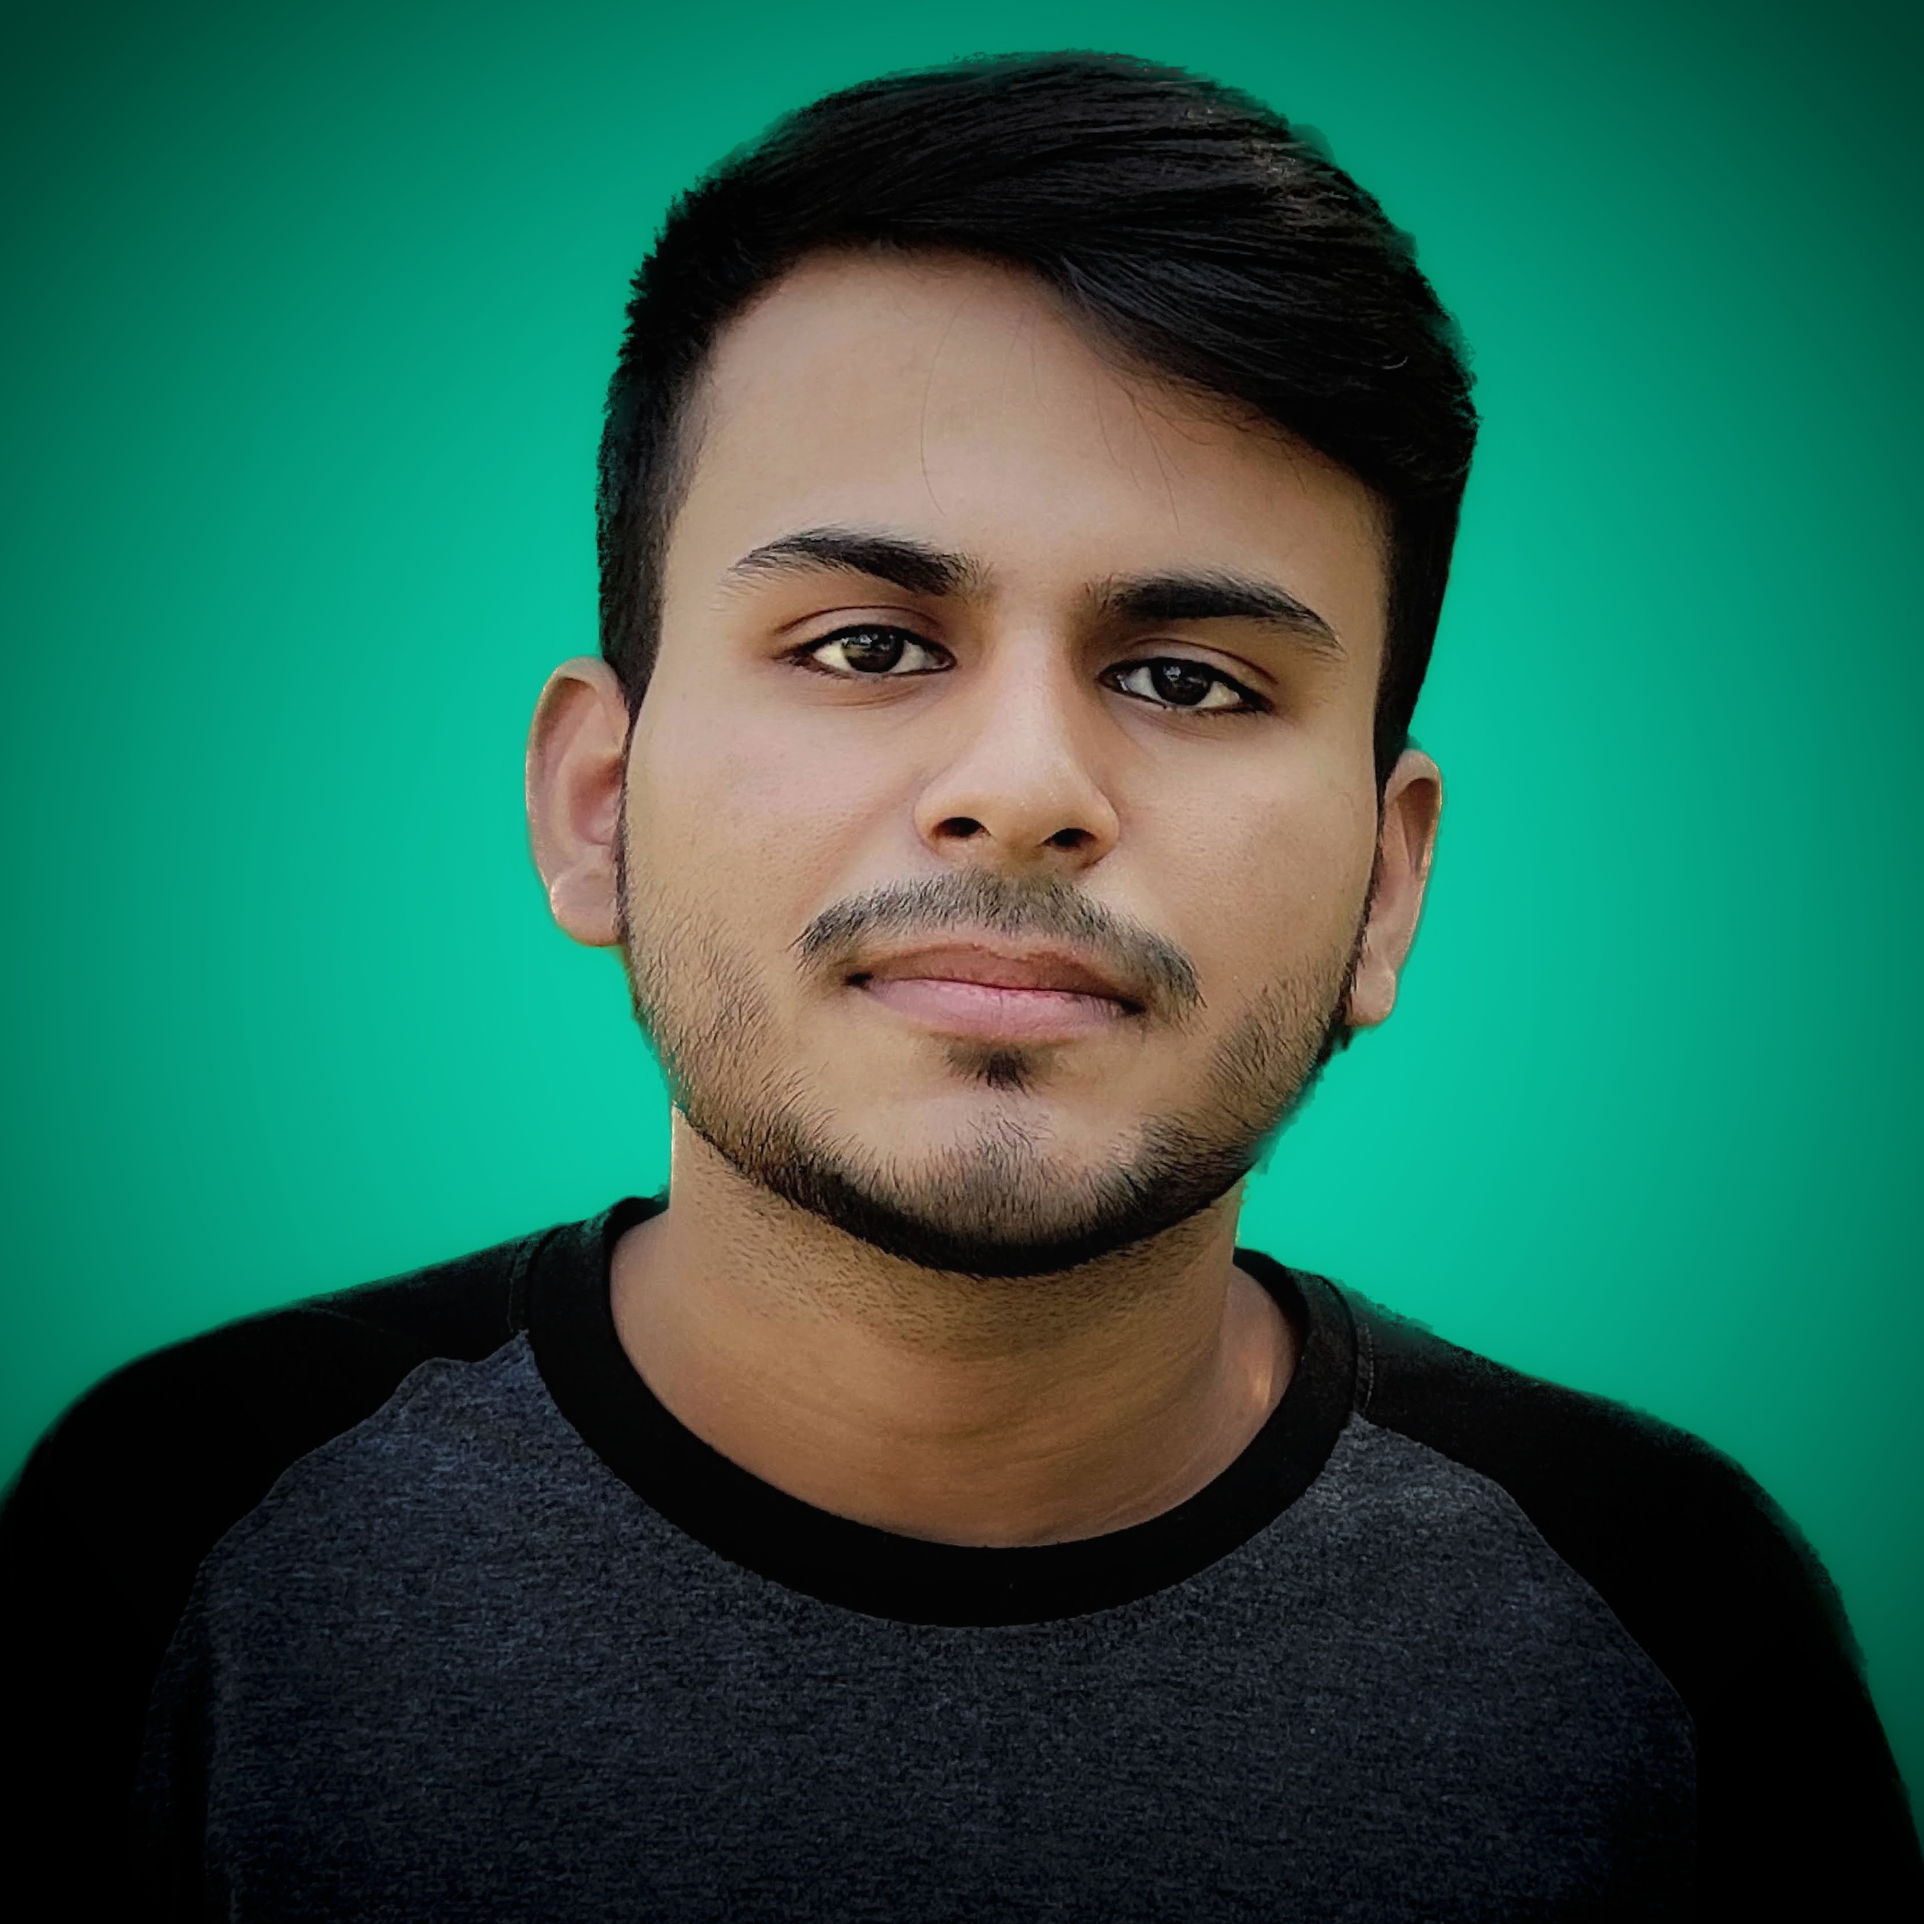
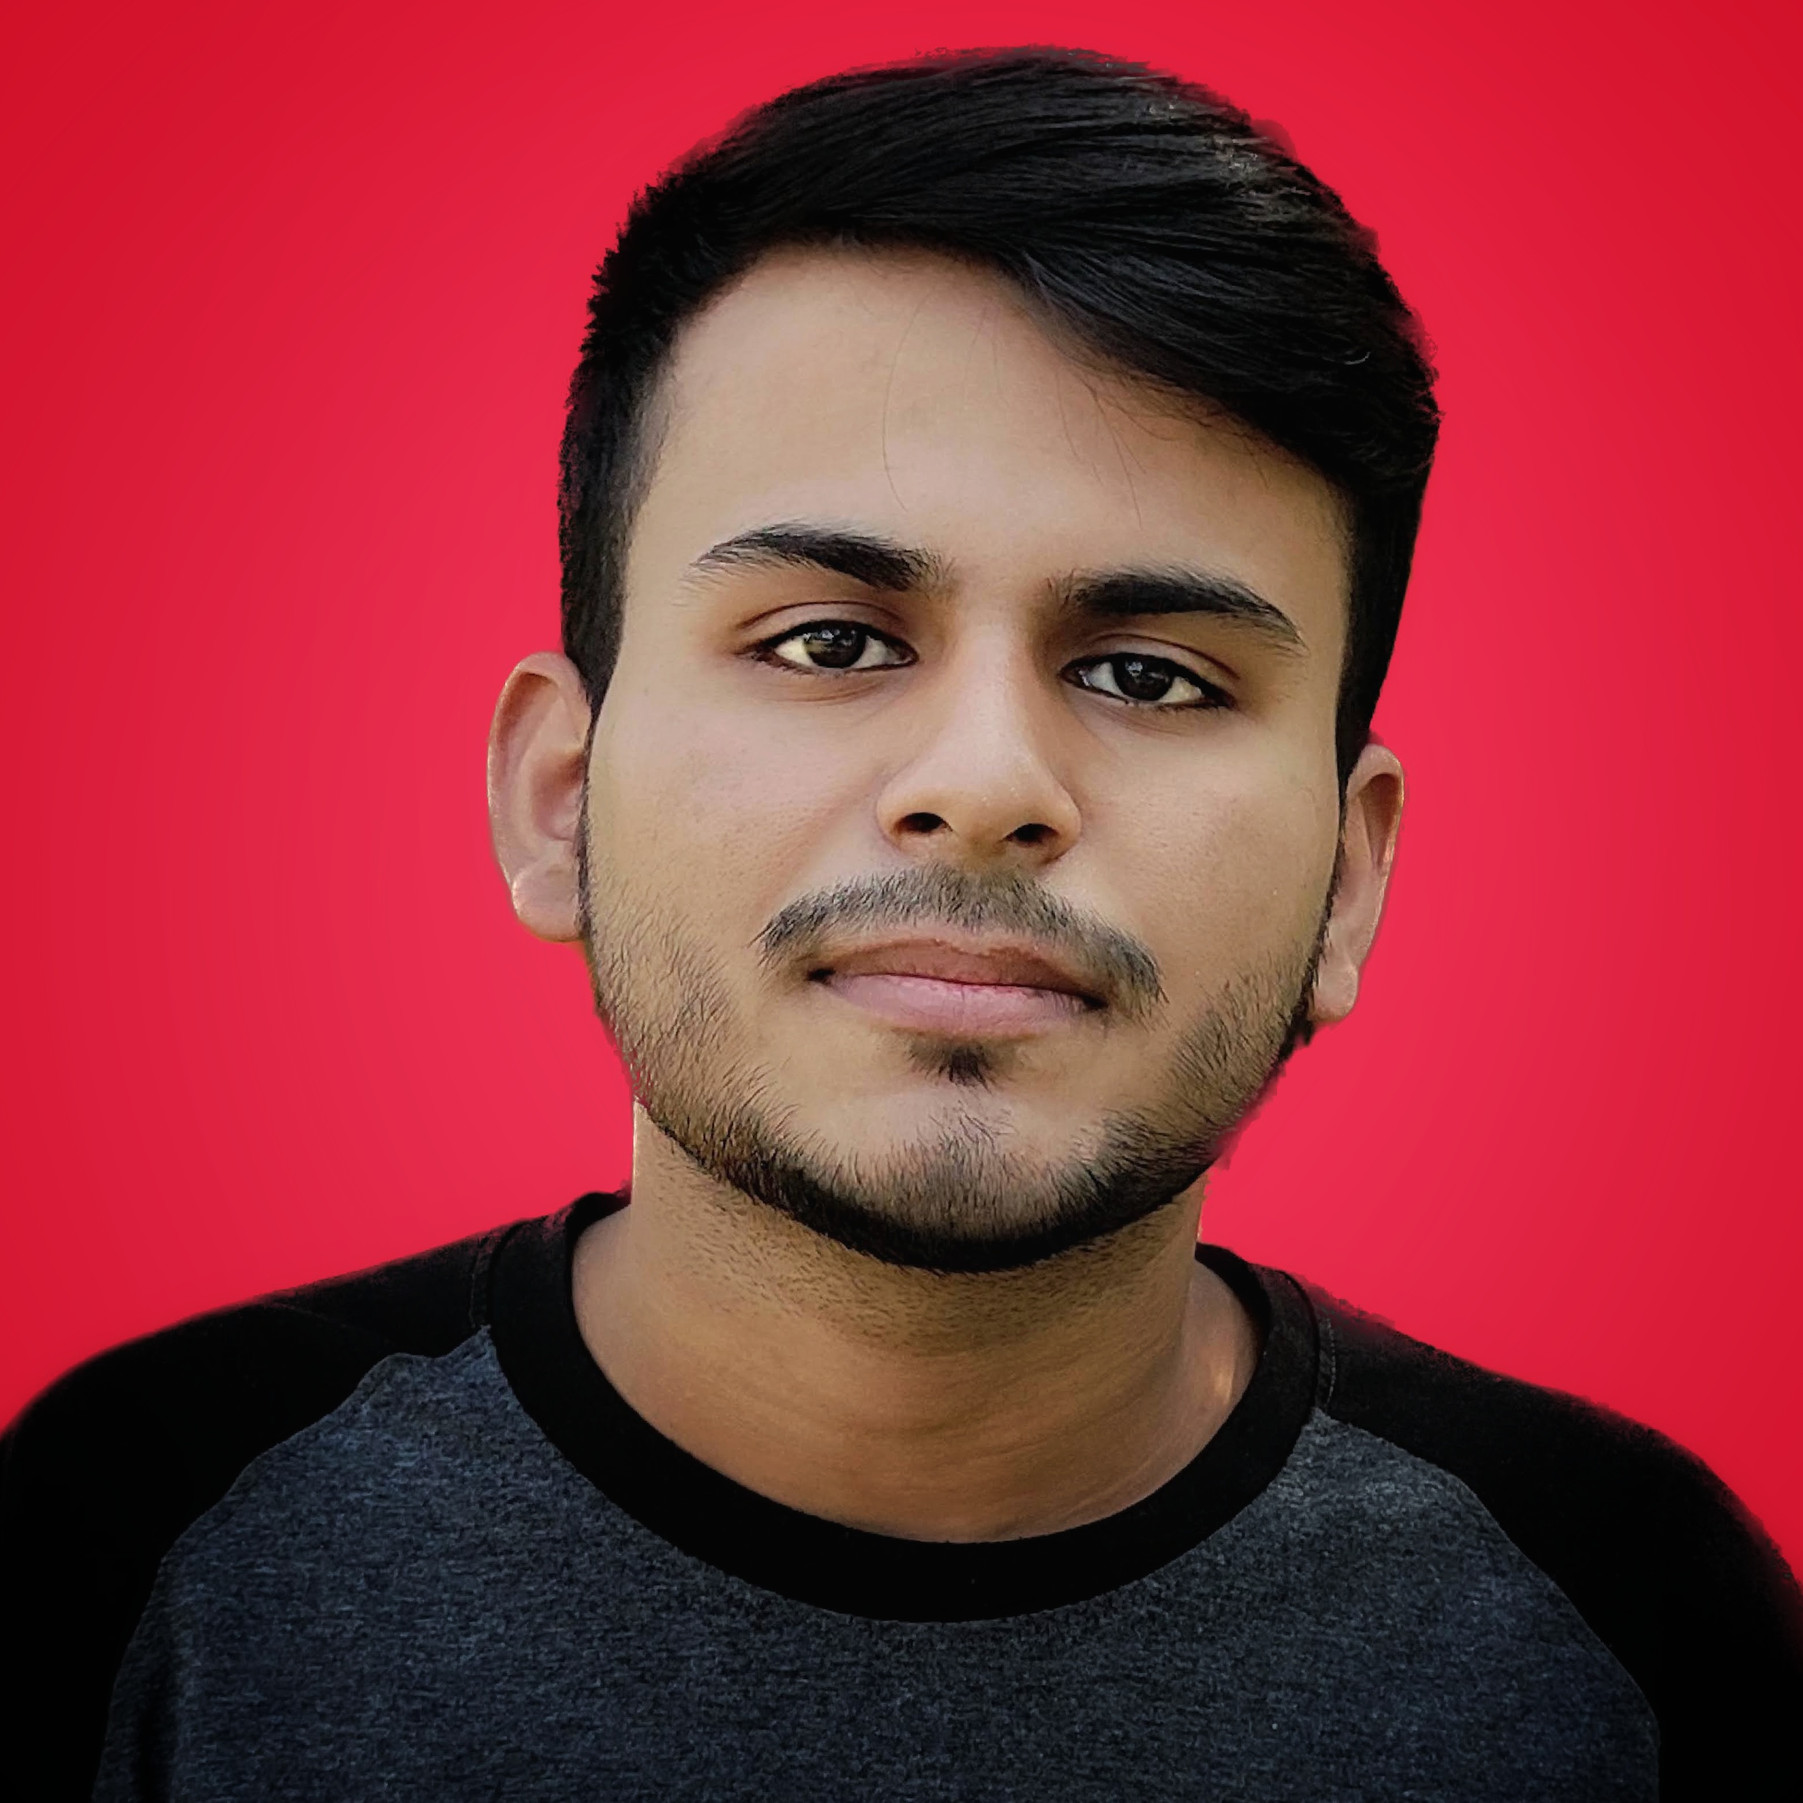
updated: progress and bg-change

diff --git a/pages/links.tsx b/pages/links.tsx
@@ -13,8 +13,9 @@ import {
 import Head from 'next/head'
 import Image from 'next/image'
 import {
+  IoCheckmarkCircleOutline,
   IoGlobeOutline,
-  IoLogoGithub,
+  IoLogoInstagram,
   IoLogoLinkedin,
   IoLogoTwitter,
   IoLogoYoutube,
@@ -23,11 +24,7 @@ import {
 import NextLink from 'next/link'
 import { useEffect, useState } from 'react'
 
-interface P {
-  data: any
-}
-
-const Links: React.FC<P> = () => {
+const Links: React.FC = () => {
   const logoImg = `/images/logo${useColorModeValue('-light', '-dark')}.png`
 
   const [meme, setMeme] = useState(null)
@@ -43,7 +40,7 @@ const Links: React.FC<P> = () => {
   }, [])
 
   return (
-    <div>
+    <div className="mt-20">
       <Head>
         <title>Links - Rose Kamal Love</title>
         <meta name="viewport" content="width=device-width initial-scale=1" />
@@ -58,94 +55,75 @@ const Links: React.FC<P> = () => {
         <meta name="og:title" content="Rose Kamal Love" />
         <meta property="og:type" content="website" />
       </Head>
-      <header className="flex flex-col items-center h-full">
-        <div className="rounded-full flex justify-center items-center border-4 w-fit shadow-sm backdrop-blur-sm mt-10">
+      <header className="flex flex-col justify-center items-center ">
+        <div className="rounded-full scale-75 flex justify-center items-center border-4 w-fit shadow-sm backdrop-blur-sm mt-10">
           <Image
-            src="/images/rosek.jpg"
+            src="/images/profile.png"
             alt="Rose Kamal"
             height={125}
             width={125}
             className="rounded-full"
           />
         </div>
-        <div
-          className={`font-bold shadow text-sm mt-1 mb-10 rounded-md transition-all`}
-        >
-          <Button variant="ghost" size="sm" backdropBlur="md">
-            <a href="http://instagram.com/rosekamallove">@rosekamallove</a>
-          </Button>
+        <div className="-mt-3 font-bold flex items-center mb-10 gap-1 justify-center">
+          <NextLink href="/home">rosekamal.love</NextLink>
+          <IoCheckmarkCircleOutline />
         </div>
       </header>
-      <ul className="flex flex-col items-center justify-center gap-2 mb-20">
-        <Popover>
-          <PopoverTrigger>
-            <Button
-              width="60"
-              variant="ghost"
-              size="lg"
-              className={`hover:shadow-lg shadow text-lg flex justify-center items-center gap-2 py-2 rounded-full transition-all backdrop-blur-md`}
-            >
-              <IoShuffle />
-              Random Meme
-            </Button>
-          </PopoverTrigger>
-          <PopoverContent>
-            <PopoverArrow />
-            <PopoverHeader>
-              <div className="flex items-center justify-center gap-5">
-                Want more?
-                <Button size="xs" onClick={() => updateMeme()}>
-                  <IoShuffle />
-                  <span className="pl-1">Re Shuffle</span>
-                </Button>
-              </div>
-            </PopoverHeader>
-            <PopoverCloseButton />
-            <PopoverBody>
-              <div className="flex items-center justify-center gap-5 overflow-scroll">
-                {meme && (
-                  <img
-                    height="80%"
-                    src={meme.preview[meme.preview.length - 1]}
-                  ></img>
-                )}
-              </div>
-            </PopoverBody>
-          </PopoverContent>
-        </Popover>
-        {links.map(link => (
-          <li key={link.href}>
-            <NextLink href={link.href}>
-              <a
-                href={link.href}
-                rel="noreferrer"
-                target={link.href === '/home' ? '' : '_blank'}
-              >
-                <Button
-                  width="60"
-                  variant="ghost"
-                  size="lg"
-                  className={`hover:shadow-lg shadow text-lg flex justify-center items-center gap-2 py-2 rounded-full transition-all backdrop-blur-md`}
+      <div className="flex flex-col items-center">
+        <div className="flex flex-col sm:flex-row gap-2">
+          <NextLink href="https://www.youtube.com/channel/UCIcZjoMa7k1w63XlP1qGbQQ">
+            <div className="flex w-52 sm:w-56 h-28 mb-5 justify-center items-center gap-2 bg-[#282c34] hover:bg-[#ef3054] hover:shadow-lg text-white cursor-pointer rounded-md px-5 py-2 transition-all">
+              <IoLogoYoutube size="2em" />
+            </div>
+          </NextLink>
+          <NextLink href="https://instagram.com/rosekamallove">
+            <div className="flex w-52 sm:w-40 h-28 mb-5 justify-center items-center gap-2 bg-[#282c34] hover:bg-[#ef3054] hover:shadow-lg text-white cursor-pointer rounded-md px-5 py-2 transition-all">
+              <IoLogoInstagram size="2em" />
+            </div>
+          </NextLink>
+        </div>
+        {/* <div className="flex flex-col items-center bg-[#282c34] hover:bg-[#ef3054] hover:shadow-lg text-white cursor-pointer rounded-md px-5 py-2 w-lg transition-all">
+          <h3 className="flex gap-2 items-center">
+            Take Charge of your learning <FiExternalLink />
+          </h3>
+        </div> */}
+      </div>
+      <div className="flex items-center justify-center">
+        <ul className="grid grid-cols-1 sm:grid-cols-2 mb-56 gap-2 max-w-lg">
+          {links.map(link => (
+            <li key={link.href}>
+              <NextLink href={link.href}>
+                <a
+                  href={link.href}
+                  rel="noreferrer"
+                  target={link.href === '/home' ? '' : '_blank'}
                 >
-                  {link.logo}
-                  {link.name}
-                </Button>
-              </a>
-            </NextLink>
-          </li>
-        ))}
-      </ul>
+                  <Button
+                    width="full"
+                    // variant="ghost"
+                    bg="#282c34"
+                    _hover={{ bg: '#ef3054', color: 'white' }}
+                    size="lg"
+                    className={`hover:shadow-lg shadow text-lg flex justify-center items-center gap-2 py-2 rounded-full transition-all backdrop-blur-md`}
+                  >
+                    {link.logo}
+                    {link.name}
+                  </Button>
+                </a>
+              </NextLink>
+            </li>
+          ))}
+        </ul>
+      </div>
     </div>
   )
 }
 
 export async function getServerSideProps() {
-  // Fetch data from external API
   const res = await fetch(`https://meme-api.herokuapp.com/gimme`)
-  console.log(res)
   const data = await res.json()
 
-  // Pass data to the page via props
   return { props: { data } }
 }
 
@@ -171,11 +149,6 @@ export const IoLogoKroto = () => (
 
 export const links = [
   {
-    name: 'YouTube',
-    href: 'https://www.youtube.com/channel/UCIcZjoMa7k1w63XlP1qGbQQ/videos',
-    logo: <IoLogoYoutube />
-  },
-  {
     name: 'rosekamal.love',
     href: '/home',
     logo: <IoGlobeOutline />
@@ -191,13 +164,44 @@ export const links = [
     logo: <IoLogoLinkedin />
   },
   {
-    name: 'GitHub',
-    href: 'https://github.com/rosekamallove',
-    logo: <IoLogoGithub />
-  },
-  {
     name: 'OnlyFans 😳',
     href: 'https://www.youtube.com/watch?v=dQw4w9WgXcQ',
     logo: <IoGlobeOutline />
   }
 ]
+
+export const MemeButton = () => (
+  <Popover>
+    <PopoverTrigger>
+      <Button
+        width="60"
+        variant="ghost"
+        size="lg"
+        className={`hover:shadow-lg shadow text-lg flex justify-center items-center gap-2 py-2 rounded-full transition-all backdrop-blur-md`}
+      >
+        <IoShuffle />
+        Have a laugh
+      </Button>
+    </PopoverTrigger>
+    <PopoverContent>
+      <PopoverArrow />
+      <PopoverHeader>
+        <div className="flex items-center justify-center gap-5">
+          Want more?
+          <Button size="xs" onClick={() => updateMeme()}>
+            <IoShuffle />
+            <span className="pl-1">Re Shuffle</span>
+          </Button>
+        </div>
+      </PopoverHeader>
+      <PopoverCloseButton />
+      <PopoverBody>
+        <div className="flex items-center justify-center gap-5 overflow-scroll">
+          {meme && (
+            <img height="80%" src={meme.preview[meme.preview.length - 1]}></img>
+          )}
+        </div>
+      </PopoverBody>
+    </PopoverContent>
+  </Popover>
+)

diff --git a/lib/posts.js b/lib/posts.js
@@ -2,6 +2,7 @@ import fs from 'fs'
 import matter from 'gray-matter'
 import path from 'path'
 import { remark } from 'remark'
+import html from 'remark-html'
 import remarkGfm from 'remark-gfm'
 import wordCounter from './word-counter'
 
@@ -62,6 +63,7 @@ export async function getPostData(id) {
   const matterResult = matter(fileContents)
 
   const processedContent = await remark()
+  .use(html)
     .use(remarkGfm)
     .process(matterResult.content)
   const contentHtml = processedContent.toString()

diff --git a/pages/index.tsx b/pages/index.tsx
@@ -17,7 +17,7 @@ export default function Page() {
           content="A friendly ambivert who loves writing code, with a craving to create music. I take photos too"
         />
       </Head>
-      <div className="overflow-scroll relative">
+      <div className="overflow-hidden relative">
         <SVGBackground />
         <Container maxW="container.md">
           <Links />

diff --git a/pages/blogs/[id].tsx b/pages/blogs/[id].tsx
@@ -37,6 +37,8 @@ interface Props {
 const Post: React.FC<Props> = ({ postData, id }) => {
   const url = `https://rosekamal.love/blogs/${id}`
 
+  console.log(postData)
+
   return (
     <Layout>
       <Head>
